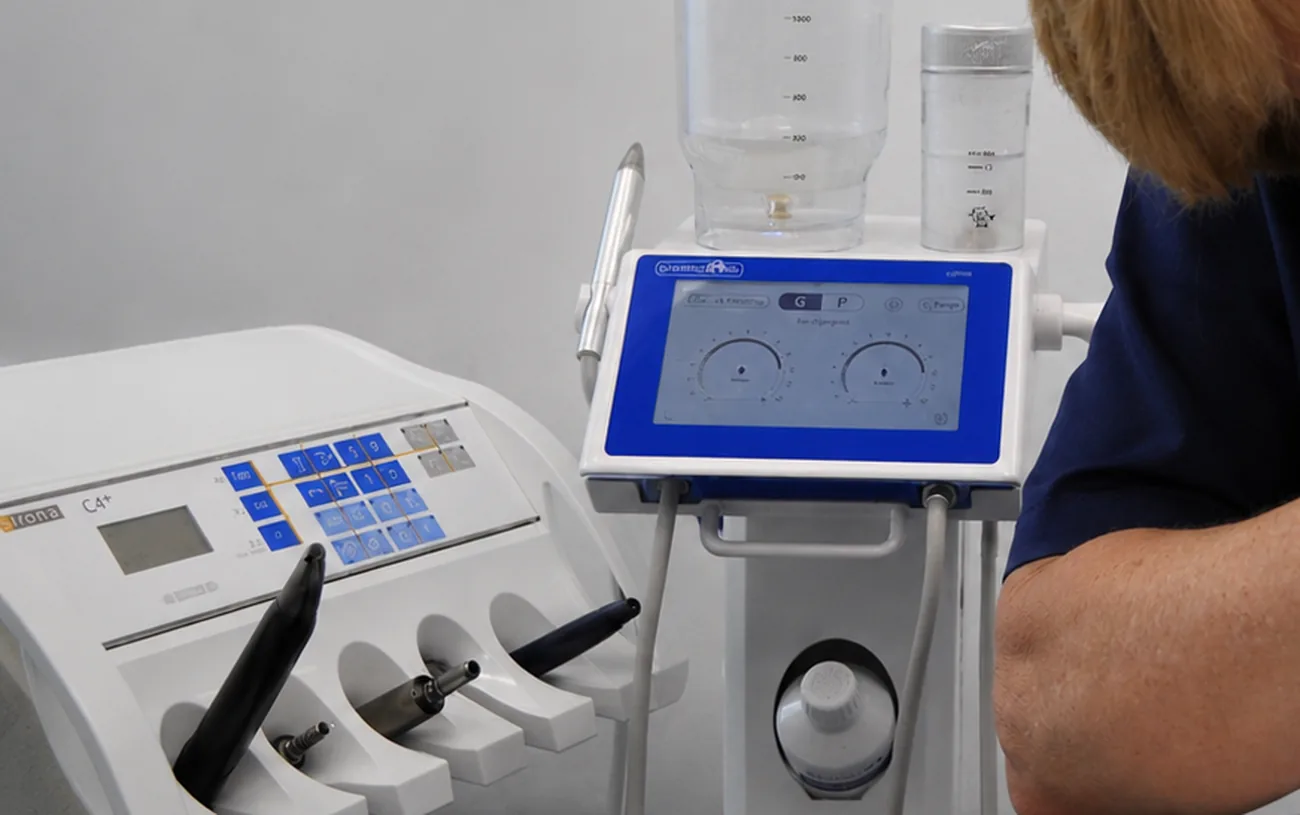
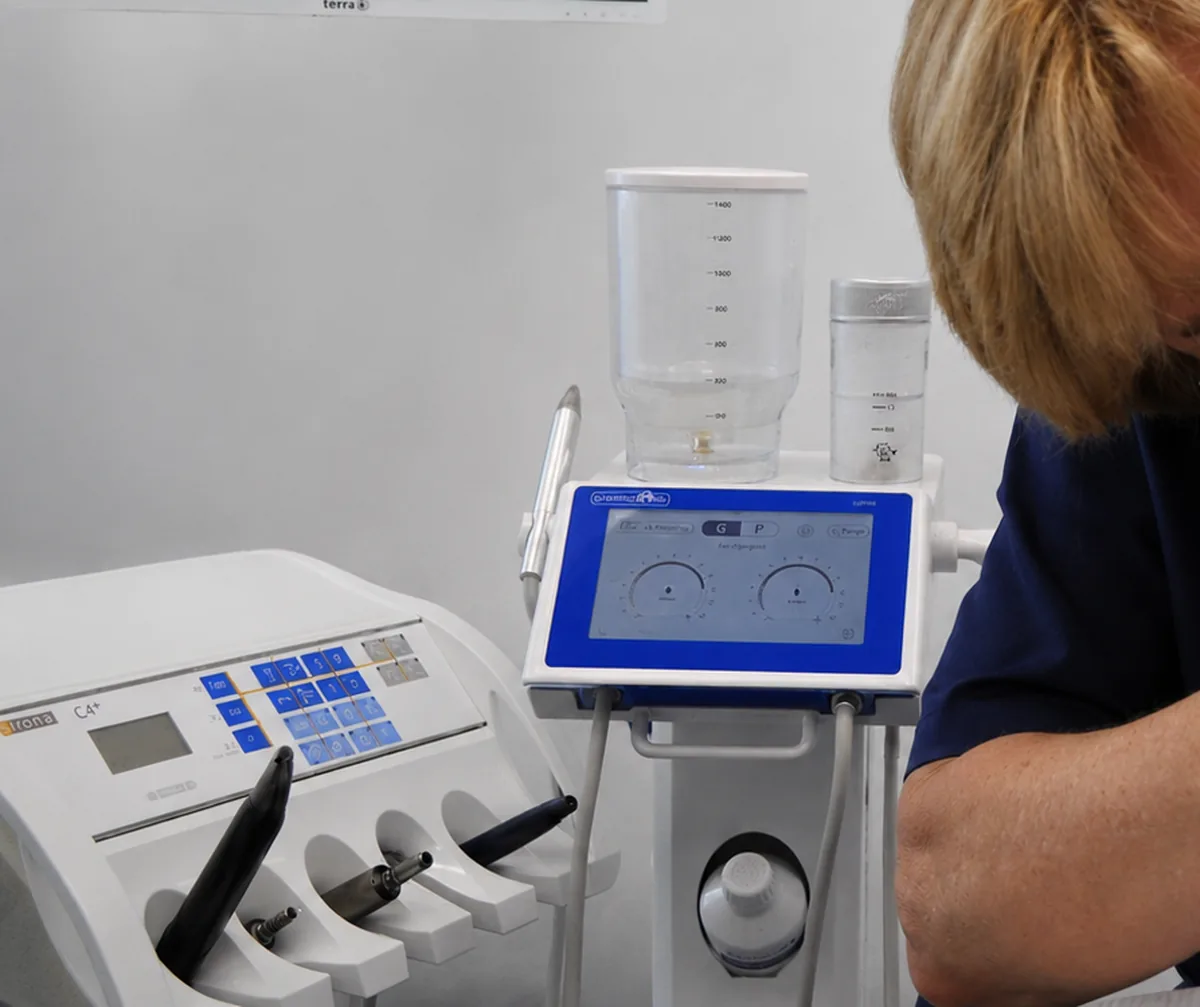
Einblicke: zweites Praxisfoto neu zugeschnitten und kleiner dargestellt
Der Ausschnitt schnitt die Behaelter des Geraetes an; neuer Ausschnitt zeigt
das Kombinationsgeraet vollstaendig. Darstellung auf 560 px begrenzt und
mittig gesetzt, Bildunterschrift entsprechend zentriert.

Claude-Session: https://claude.ai/code/session_01Qiqe53JXLLGf3snUVpaE1v

diff --git a/news.html b/news.html
@@ -231,9 +231,9 @@ a.pp:hover{color:#8F7440 !important}
           <p style="margin:0;font-size:15.5px;line-height:1.75;color:#4B5875">Für die Nachsorge nach einer Parodontitisbehandlung gilt allerdings eine Besonderheit. Eine systematische Übersichtsarbeit mit Metaanalyse von acht randomisierten Studien kommt zu dem Ergebnis, dass Pulverstrahlreinigung mit Erythritol in dieser Phase die Hand- und Ultraschallinstrumentierung ersetzen kann, bei vergleichbaren Werten für Taschentiefe und Blutung. Die Behandelten empfanden dabei weniger Schmerzen (Abdulbaqi et al. 2021).</p>
           <p style="margin:0;font-size:15.5px;line-height:1.75;color:#4B5875">In unserer Praxis kombinieren wir beides in der Regel innerhalb einer Sitzung: zuerst die Entfernung harter Auflagerungen, danach die Pulverstrahlreinigung.</p>
 
-          <figure style="margin:6px 0 0;display:flex;flex-direction:column;gap:10px">
-            <img src="assets/img-airflow-behandlung.webp" alt="Kombinationsgerät neben der Behandlungseinheit im Behandlungszimmer" loading="lazy" style="width:100%;height:auto;display:block;border-radius:16px">
-            <figcaption style="font-size:13.5px;line-height:1.6;color:#8A93A6;font-style:italic">Ultraschall und Pulverstrahl stehen bei uns direkt nebeneinander. So lassen sich harte und weiche Beläge nacheinander in einem Termin entfernen.</figcaption>
+          <figure style="margin:6px 0 0;display:flex;flex-direction:column;align-items:center;gap:10px">
+            <img src="assets/img-airflow-behandlung.webp?v=2" alt="Kombinationsgerät neben der Behandlungseinheit im Behandlungszimmer" loading="lazy" style="width:100%;max-width:560px;height:auto;display:block;border-radius:16px">
+            <figcaption style="font-size:13.5px;line-height:1.6;color:#8A93A6;font-style:italic;max-width:560px;text-align:center">Ultraschall und Pulverstrahl stehen bei uns direkt nebeneinander. So lassen sich harte und weiche Beläge nacheinander in einem Termin entfernen.</figcaption>
           </figure>
 
           <h3 style="margin:6px 0 0;font-family:'Quicksand',sans-serif;font-size:20px;font-weight:600;color:#2C4170">Schädigt Airflow den Zahnschmelz?</h3>
